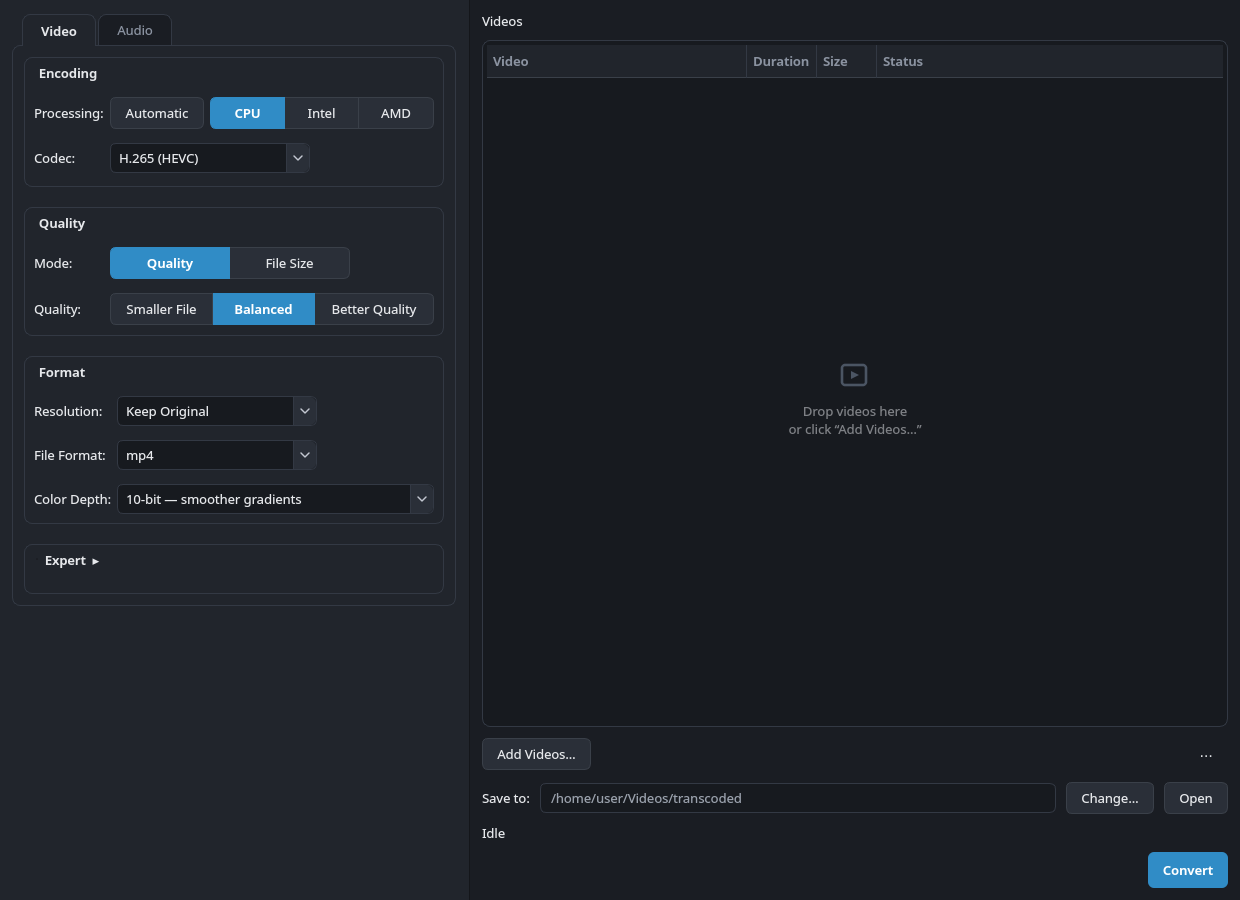
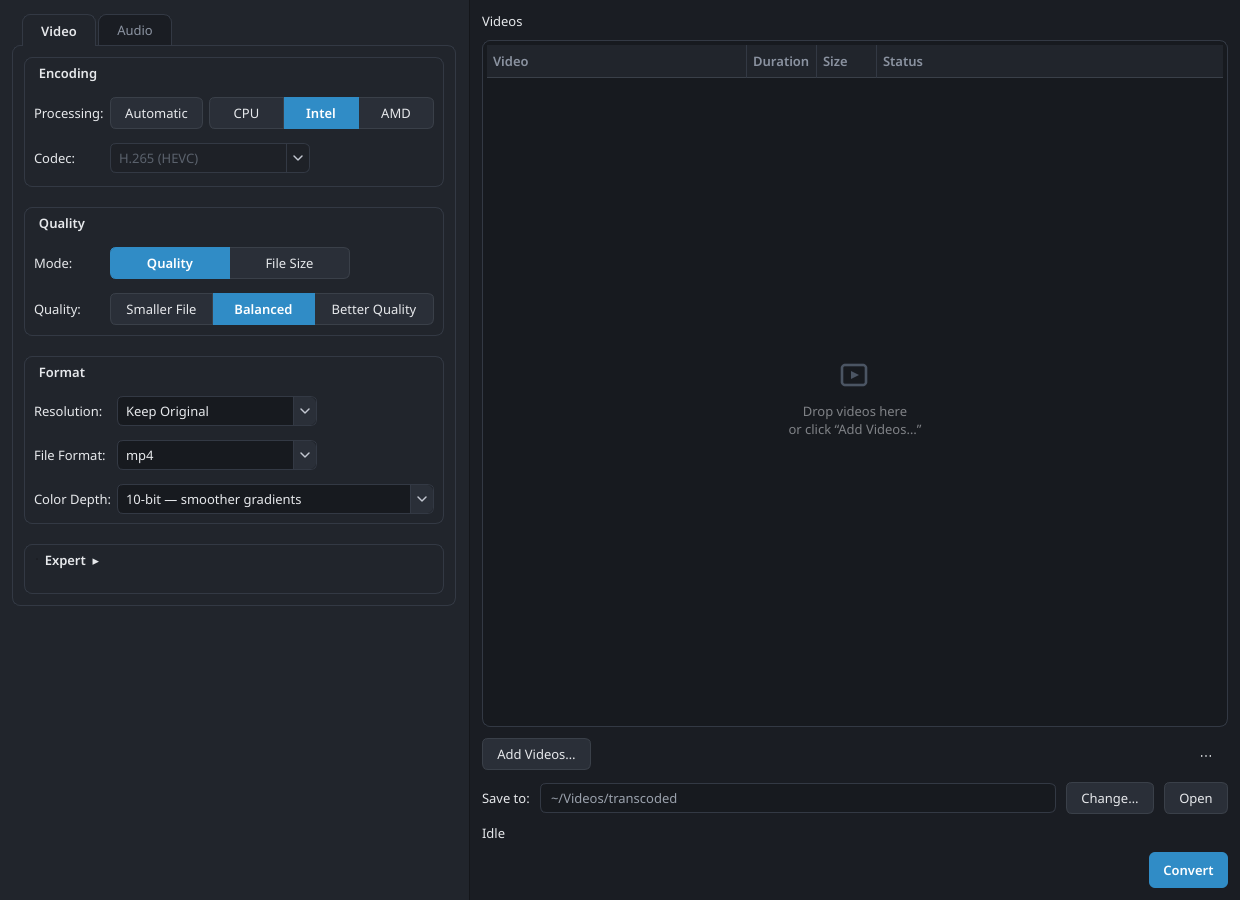
Rename app to VeloCoder; fix CI VAAPI dependency; friendlier Save-to and Target Size UI
- Rename TITAN Video -> VeloCoder throughout (window title, QSettings
  identity, README, docstrings, comments) and the GitHub repo
  (tneohcl/titan-video-consumer -> tneohcl/velocoder).
- tests/test_worker.py: mock find_render_node for the test classes that
  only check build_args()'s argv, not real hardware -- CI's GPU-less
  runner has no /dev/dri at all, unlike this dev box's real Intel iGPU,
  so ~29 tests were failing there with "No render node found for PCI
  vendor 0x8086". Verified the mock actually intercepts regardless of
  real hardware, not just that it happens to still pass locally.
- formatting.display_path(): the Save-to field now shows "~/Videos/..."
  instead of spelling out the real absolute home directory -- friendlier
  to read, and doesn't put the real username on screen/in a screenshot.
  self.output_dir itself is unchanged, still a plain resolved Path.
- Shortened every Target Size estimate caption so it fits on one line at
  this row's actual width instead of being hard-clipped by the panel
  edge (reported live, confirmed by screenshot) -- word wrap stays on as
  a safety net. Added visible spacing between the spinbox and the
  caption, also reported as too tight.
- README: document display_path and the render-node mocking fix; update
  every renamed reference.

Changed region(s): [[0.0919, 0.0933, 0.3065, 0.1867], [0.429, 0.8711, 0.5823, 0.9022], [0.95, 0.9644, 0.9806, 0.9956]]

diff --git a/main.py b/main.py
@@ -1,5 +1,5 @@
 #!/usr/bin/env python3
-"""TITAN Video: simplified, consumer-facing fork of TITAN-i Transcoder
+"""VeloCoder: simplified, consumer-facing fork of TITAN-i Transcoder
 (/mnt/data/tools/transcoder) -- same ffmpeg engine and settings model,
 progressive-disclosure UI (Normal controls always visible, full technical
 control set tucked behind an Expert section) instead of exposing everything
@@ -68,7 +68,7 @@ DEFAULT_SETTINGS = {
 class MainWindow(QMainWindow, _UiBuilderMixin, _QueueControllerMixin):
     def __init__(self):
         super().__init__()
-        self.setWindowTitle("TITAN Video")
+        self.setWindowTitle("VeloCoder")
         self.resize(1240, 820)
         # Left panel is a fixed 470px inspector now (ui_builder.py's
         # _build_ui), not a resizable pane -- narrowing the window has
@@ -153,7 +153,7 @@ class MainWindow(QMainWindow, _UiBuilderMixin, _QueueControllerMixin):
         # resolves its backing file purely from this pair, so sharing it
         # would mean the two apps clobbered each other's window geometry,
         # theme, and expanded-section state every time either one closed.
-        self._qsettings = QSettings("TITAN", "TitanVideo")
+        self._qsettings = QSettings("VeloCoder", "VeloCoder")
 
         # "system" (not "dark") -- this fork's whole premise is following
         # OS/Mac-style conventions by default rather than an app-specific
@@ -991,7 +991,7 @@ class MainWindow(QMainWindow, _UiBuilderMixin, _QueueControllerMixin):
         if not hasattr(self, "size_estimate_label") or settings["rc_mode"] not in BITRATE_RC_MODES:
             return
         if self.queue_list.topLevelItemCount() == 0:
-            self.size_estimate_label.setText("Add a file to estimate the resulting bitrate")
+            self.size_estimate_label.setText("Add a video to estimate bitrate")
             return
         first_path = self.queue_list.topLevelItem(0).data(STATUS_COL, Qt.UserRole)["path"]
         try:
@@ -1004,11 +1004,11 @@ class MainWindow(QMainWindow, _UiBuilderMixin, _QueueControllerMixin):
             # would then hit the same uncaught exception again.
             duration = self._preview_duration(first_path)
             audio_codec = self._preview_audio_codec(first_path, settings["audio_track"])
-        except Exception as exc:
-            self.size_estimate_label.setText(f"(estimate unavailable: {exc})")
+        except Exception:
+            self.size_estimate_label.setText("(estimate unavailable)")
             return
         if duration <= 0:
-            self.size_estimate_label.setText("Couldn't read this file's duration to estimate bitrate")
+            self.size_estimate_label.setText("Couldn't read this video's duration")
             return
         # Same will_copy_audio reasoning as worker.build_args (which this
         # label doesn't call directly, so the condition has to be
@@ -1047,11 +1047,9 @@ class MainWindow(QMainWindow, _UiBuilderMixin, _QueueControllerMixin):
             # own default CRF instead of erroring) -- this label should
             # say so before the user ever gets that far, not just describe
             # a number that Start would then refuse to act on anyway.
-            self.size_estimate_label.setText(
-                "Target size is too small for this file's length and audio settings"
-            )
+            self.size_estimate_label.setText("Target size too small for this video")
             return
-        self.size_estimate_label.setText(f"≈ {video_kbps:,} kbps video for this file's length (estimate)")
+        self.size_estimate_label.setText(f"≈ {video_kbps:,} kbps video (estimate)")
 
     # --- settings <-> controls ---
     def _current_settings(self) -> dict:

diff --git a/tests/test_main.py b/tests/test_main.py
@@ -44,7 +44,7 @@ import worker  # noqa: E402
 def _empty_qsettings():
     """Patches QSettings.value at the class level to simulate a fresh
     config store with nothing persisted yet. A bare MainWindow() otherwise
-    reads whatever this machine's real ~/.config/TITAN/TitanVideo.conf
+    reads whatever this machine's real ~/.config/VeloCoder/VeloCoder.conf
     happens to have -- real ambient state (e.g. the user actually expanded
     Effective Command, or picked a theme, while using the real app) that
     has nothing to do with what a test asserting a *default* means."""
@@ -315,7 +315,7 @@ class TestResolveTheme(unittest.TestCase):
 
 class TestThemeIntegration(unittest.TestCase):
     def test_default_theme_choice_is_system(self):
-        # TITAN Video (unlike the sibling TITAN-i Transcoder, which keeps
+        # VeloCoder (unlike the sibling TITAN-i Transcoder, which keeps
         # "dark") defaults to following the OS's own light/dark preference
         # -- this fork's whole premise is Mac-style conventions over an
         # app-specific opinion.
@@ -615,7 +615,7 @@ class TestSizeEstimateLabel(unittest.TestCase):
         window = main.MainWindow()
         window.show()
         window.mode_filesize_btn.click()
-        self.assertIn("Add a file", window.size_estimate_label.text())
+        self.assertIn("Add a video", window.size_estimate_label.text())
 
     def test_shows_a_real_computed_estimate_for_a_queued_file(self):
         window = main.MainWindow()
@@ -629,7 +629,7 @@ class TestSizeEstimateLabel(unittest.TestCase):
             window.size_spin.setValue(1000)
             text = window.size_estimate_label.text()
         self.assertIn("kbps", text)
-        self.assertNotIn("Add a file", text)
+        self.assertNotIn("Add a video", text)
         self.assertNotIn("Couldn't read", text)
 
     def test_a_probe_failure_degrades_to_a_message_instead_of_raising(self):
@@ -2119,6 +2119,28 @@ class TestProbeProcessesFailedToStart(unittest.TestCase):
             shutil.rmtree(fakebin, ignore_errors=True)
 
 
+class TestDisplayPath(unittest.TestCase):
+    """formatting.display_path() -- the Save-to field's display form.
+    Collapses a path under the real home directory to "~/..." so the
+    field reads as a normal user would expect, rather than spelling out
+    the full resolved absolute path (which is still what's actually used
+    for file operations -- see output_dir, unaffected by this)."""
+
+    def test_path_under_home_collapses_to_tilde(self):
+        self.assertEqual(
+            formatting.display_path(Path.home() / "Videos" / "transcoded"),
+            "~/Videos/transcoded",
+        )
+
+    def test_home_itself_collapses_to_bare_tilde(self):
+        self.assertEqual(formatting.display_path(Path.home()), "~")
+
+    def test_path_outside_home_is_shown_in_full(self):
+        self.assertEqual(
+            formatting.display_path(Path("/mnt/other/output")), "/mnt/other/output"
+        )
+
+
 class TestOutputEditNormalization(unittest.TestCase):
     """A manually-typed output path skipped normalization entirely --
     unlike Browse (_pick_output_dir), which only ever hands back a clean
@@ -2141,7 +2163,7 @@ class TestOutputEditNormalization(unittest.TestCase):
         window = main.MainWindow()
         window.output_edit.setText("~/some_transcoder_test_subdir")
         window._on_output_edit_changed()
-        self.assertEqual(window.output_edit.text(), str(window.output_dir))
+        self.assertEqual(window.output_edit.text(), "~/some_transcoder_test_subdir")
 
     def test_dash_prefixed_relative_path_resolves_to_a_safe_absolute_one(self):
         window = main.MainWindow()

diff --git a/tests/test_worker.py b/tests/test_worker.py
@@ -111,6 +111,22 @@ def _make_clip(path: Path, tracks=(("aac", 440),)):
     subprocess.run(args, check=True, timeout=30)
 
 
+class _MockedRenderNodeMixin:
+    """For classes that only check the argv build_args() produces, not that
+    any device it names is real -- these use vaapi_settings() as a generic
+    "some encoder" fixture, not because the test is actually about VAAPI, so
+    a real render node (this dev box's Intel iGPU, absent on a CI runner
+    with no GPU at all) is not required. Mirrors the per-test
+    patch.object(worker, "find_render_node") pattern TestGpuVendorSelection
+    already uses below, just applied once per class instead of per test."""
+
+    def setUp(self):
+        super().setUp()
+        patcher = patch.object(worker, "find_render_node", return_value="/dev/dri/renderD128")
+        self.addCleanup(patcher.stop)
+        patcher.start()
+
+
 class ClipTestCase(unittest.TestCase):
     """Base class providing a real tiny video file, built once per class."""
 
@@ -131,7 +147,7 @@ class ClipTestCase(unittest.TestCase):
         return self.tmpdir / "out.mp4"
 
 
-class TestBuildArgsVaapi(ClipTestCase):
+class TestBuildArgsVaapi(_MockedRenderNodeMixin, ClipTestCase):
     def test_icq_uses_global_quality(self):
         args = worker.build_args(vaapi_settings(rc_mode="ICQ", quality_value=30), self.clip, self.out_path)
         self.assertIn("-global_quality", args)
@@ -488,7 +504,7 @@ class TestTargetSizeTooSmallRejected(unittest.TestCase):
         self.assertIn("-b:v", args)
 
 
-class TestBuildArgsCommon(ClipTestCase):
+class TestBuildArgsCommon(_MockedRenderNodeMixin, ClipTestCase):
     def test_resolution_clamps_to_source_no_upscale(self):
         args = worker.build_args(vaapi_settings(width=99999, height=99999), self.clip, self.out_path)
         vf = args[args.index("-vf") + 1]
@@ -523,7 +539,7 @@ class TestBuildArgsCommon(ClipTestCase):
         self.assertNotIn("-movflags", args)
 
 
-class TestTune(ClipTestCase):
+class TestTune(_MockedRenderNodeMixin, ClipTestCase):
     def test_none_omits_tune_flag(self):
         args = worker.build_args(x265_settings(tune="None"), self.clip, self.out_path)
         self.assertNotIn("-tune", args)
@@ -548,7 +564,7 @@ class TestTune(ClipTestCase):
         self.assertNotIn("film", X265_TUNES)
 
 
-class TestAudioSelection(ClipTestCase):
+class TestAudioSelection(_MockedRenderNodeMixin, ClipTestCase):
     tracks = (("aac", 440), ("ac3", 880))
 
     def test_copies_compatible_codec(self):
@@ -578,7 +594,7 @@ class TestAudioSelection(ClipTestCase):
     # rather than duplicated here with a fixture this class can't produce.
 
 
-class TestAudioDownmix(unittest.TestCase):
+class TestAudioDownmix(_MockedRenderNodeMixin, unittest.TestCase):
     """audio_downmix_stereo -- probe_audio=False throughout except the one
     real-encode check at the bottom, same split as TestCommandPreview vs.
     the ClipTestCase-based classes above: these don't need a real file to
@@ -697,7 +713,7 @@ class TestAudioDownmix(unittest.TestCase):
             shutil.rmtree(tmpdir, ignore_errors=True)
 
 
-class TestCommandPreview(unittest.TestCase):
+class TestCommandPreview(_MockedRenderNodeMixin, unittest.TestCase):
     """build_args(probe_audio=False) -- the GUI's live command preview path.
 
     No real file needed: this mode exists specifically to avoid touching

diff --git a/ui_builder.py b/ui_builder.py
@@ -465,7 +465,21 @@ class _UiBuilderMixin:
         self.size_spin.valueChanged.connect(self._on_control_changed)
         self.size_estimate_label = QLabel()
         self.size_estimate_label.setStyleSheet("font-size: 9pt;")
+        # Unlike the fuzzy-caption labels above (which sit on their own
+        # line, full box width), this one shares a row with size_spin --
+        # noticeably less horizontal room. Shortened every message this
+        # can show (see _update_size_estimate_label) to fit one line at
+        # that width, but word wrap stays on as a safety net -- the
+        # probe-failure branch interpolates nothing unbounded any more,
+        # but there's no guarantee some future message stays short.
+        self.size_estimate_label.setWordWrap(True)
         self._target_size_field = target_size_row = QHBoxLayout()
+        # Default QHBoxLayout spacing reads too tight here -- size_spin's
+        # own spin-arrow buttons sit right up against the caption text
+        # (reported live, confirmed by screenshot) -- unlike quality_row's
+        # slider+label above, which has enough visual breathing room from
+        # the slider's own end padding without needing this.
+        target_size_row.setSpacing(10)
         target_size_row.addWidget(self.size_spin)
         target_size_row.addWidget(self.size_estimate_label, 1)
         form.addRow("Target Size:", target_size_row)
@@ -1059,7 +1073,7 @@ class _UiBuilderMixin:
         # still, trailing status/progress/ETA/stats -- see run_row's own
         # comment further down for why).
         out_row = QHBoxLayout()
-        self.output_edit = QLineEdit(str(self.output_dir))
+        self.output_edit = QLineEdit(formatting.display_path(self.output_dir))
         # Typing a path directly, not just Change...'s browse dialog -- the
         # dialog only ever hands back a real, already-existing directory,
         # so unlike there, a typed path isn't checked to exist here either;

diff --git a/formatting.py b/formatting.py
@@ -2,10 +2,26 @@
 already @staticmethod (no `self` dependency at all), so this is a
 straightforward move: plain functions here, directly unit-testable without
 building a QApplication/MainWindow, which they now are."""
+from pathlib import Path
+
 from PySide6.QtWidgets import QSlider
 
 import worker
 from constants import ENCODERS, RESOLUTIONS
+
+
+def display_path(path: Path) -> str:
+    """Collapse a path under the user's home directory to a "~/..." form
+    for display -- friendlier than the fully resolved absolute path (e.g.
+    Save to:) without changing what's actually used for file operations,
+    which stays a plain resolved Path throughout."""
+    home = Path.home()
+    if path == home:
+        return "~"
+    try:
+        return f"~/{path.relative_to(home)}"
+    except ValueError:
+        return str(path)
 
 _VIDEO_CODEC_LABELS = {
     "h264": "H.264", "hevc": "HEVC", "vp9": "VP9", "av1": "AV1",

diff --git a/queue_controller.py b/queue_controller.py
@@ -429,7 +429,7 @@ class _QueueControllerMixin:
         d = QFileDialog.getExistingDirectory(self, "Output folder", str(self.output_dir))
         if d:
             self.output_dir = Path(d)
-            self.output_edit.setText(d)
+            self.output_edit.setText(formatting.display_path(self.output_dir))
 
     def _on_output_edit_changed(self):
         text = self.output_edit.text().strip()
@@ -446,7 +446,7 @@ class _QueueControllerMixin:
             # Reflected back into the field, matching what Browse
             # (_pick_output_dir above) already does after a selection.
             self.output_dir = Path(text).expanduser().resolve()
-            self.output_edit.setText(str(self.output_dir))
+            self.output_edit.setText(formatting.display_path(self.output_dir))
 
     def _open_output_dir(self):
         self.output_dir.mkdir(parents=True, exist_ok=True)

diff --git a/README.md b/README.md
@@ -1,4 +1,4 @@
-# TITAN Video
+# VeloCoder
 
 A focused desktop video transcoder built with PySide6 and ffmpeg --
 originally a minimal front-end replacing HandBrake, whose QSV path is
@@ -193,8 +193,8 @@ pane). Left pane: a `QTabWidget` (**Video** / **Audio** — see Controls
 below for the current Normal/Expert breakdown of each). Right pane: the
 queue, output folder, run controls, progress bar, a live stats line, and
 the full log. Window geometry (and Expert's own expanded/collapsed state)
-is remembered across launches via `QSettings("TITAN", "TitanVideo")` (on
-Linux: `~/.config/TITAN/TitanVideo.conf`).
+is remembered across launches via `QSettings("VeloCoder", "VeloCoder")` (on
+Linux: `~/.config/VeloCoder/VeloCoder.conf`).
 
 The settings dict that flows from the GUI into `build_args()`:
 
@@ -402,7 +402,7 @@ section with nothing left to put in it would be worse than none)
   into the fixed list, not the kbps number itself, since the real values
   aren't evenly spaced.
 
-**Below the tabs, left side** *(TITAN Video specifically — see this fork's
+**Below the tabs, left side** *(VeloCoder specifically — see this fork's
 own note at the top of this file. The sibling TITAN-i Transcoder app still
 keeps Effective Command inline exactly as described in its own copy of
 this section.)*
@@ -578,12 +578,17 @@ picked (`_maybe_note_no_hardware`, main.py).
 - **Save to** (labelled **Output folder** in the sibling TITAN-i Transcoder
   app) — deliberately *not* the first thing in the window; it's a per-run
   detail, so it sits below the queue, near where it's used, not up with
-  Quality/Format. The field is directly editable, not just settable via
-  **Change…**'s browse dialog — typing a path doesn't check it exists
-  (`editingFinished` just updates `self.output_dir`), the same as a
-  browsed-to path already didn't; both get created on demand
-  (`mkdir(parents=True, exist_ok=True)`) right before they're actually
-  needed, at Convert or Open.
+  Quality/Format. Displayed as `~/Videos/transcoded` rather than the fully
+  resolved absolute path (`formatting.display_path`) whenever it's under
+  the home directory — friendlier to read, and avoids spelling out the
+  real username on a shared screen/screenshot; `self.output_dir` itself
+  is still the plain resolved `Path` everywhere it's actually used. The
+  field is directly editable, not just settable via **Change…**'s browse
+  dialog — typing a path doesn't check it exists (`editingFinished` just
+  updates `self.output_dir`), the same as a browsed-to path already
+  didn't; both get created on demand (`mkdir(parents=True,
+  exist_ok=True)`) right before they're actually needed, at Convert or
+  Open.
 - **Open** — opens the current output folder in the desktop file manager.
 - **Run status, phase-dependent** — `status_label` reads "Converting N of M
   — filename" while running (was "[N/M] Encoding filename"); underneath it,

diff --git a/CONSUMER_FORK_PLAN.md b/CONSUMER_FORK_PLAN.md
@@ -1,8 +1,9 @@
-# TITAN Video — Consumer Fork Plan
+# VeloCoder — Consumer Fork Plan
 
 Status: **v1 scope revised and built.** This folder is a fork of
-`titan-video` (cloned 2026-09-05, pushed to its own repo,
-`tneohcl/titan-video-consumer`, private). The original v1 pass
+`titan-video` (cloned 2026-09-05, pushed to its own repo, originally
+`tneohcl/titan-video-consumer`, renamed to `tneohcl/velocoder` once the
+app itself was renamed -- private). The original v1 pass
 subtracted down to a near-minimal control set (Quality tier + Resolution
 + Audio choice, everything else cut); after using it, the positioning
 itself was revisited -- see "v1 positioning" and "v1 scope" below for
@@ -14,10 +15,9 @@ change this early and expensive to change after distribution.
 
 ## v1 positioning (revised)
 
-- **Name:** keep "TITAN Video" for now. A studio-brand name on a
-  consumer app is a real mismatch long-term, but inventing a new brand
-  isn't a v1-blocking decision -- renaming a fork before its first real
-  release costs nothing.
+- **Name:** renamed to "VeloCoder" (from "TITAN Video"). A studio-brand
+  name on a consumer app was a real mismatch long-term, and renaming a
+  fork before its first real release costs nothing.
 - **Price:** free for v1. No payment infrastructure to build, no App
   Store review economics to plan around yet. Revisit once there's an
   actual user asking for a paid tier's specific feature.
@@ -43,7 +43,7 @@ change this early and expensive to change after distribution.
 
 ## Why fork instead of adding a "simple mode" toggle
 
-TITAN Video, as it stands, was independently assessed as landing around
+VeloCoder, as it stands, was independently assessed as landing around
 **"professional specialist desktop application"** — not amateurish, but
 also not a mass-market consumer app, on purpose: explicit CPU/Intel/AMD
 processing choice, an Expert section exposing codec/CRF/bit depth/tuning,
@@ -146,9 +146,12 @@ upstream UI changes won't merge cleanly either direction, and the two
 products may end up branded separately per the naming question above.
 `origin` was removed right after cloning (it defaulted to the local
 `titan-video` path, not a real remote); a real one now exists --
-`https://github.com/tneohcl/titan-video-consumer` (private), created and
-pushed the same way `titan-video` itself was (`gh repo create
-titan-video-consumer --private --source=. --remote=origin --push`).
+originally `https://github.com/tneohcl/titan-video-consumer` (private,
+created and pushed the same way `titan-video` itself was via `gh repo
+create titan-video-consumer --private --source=. --remote=origin
+--push`), renamed to `https://github.com/tneohcl/velocoder` once the app
+itself was renamed (`gh repo rename velocoder` -- GitHub redirects the
+old URL, and `origin` was updated automatically).
 
 ## Packaging (the other reviewer's core point: this matters more than more UI polish)
 
